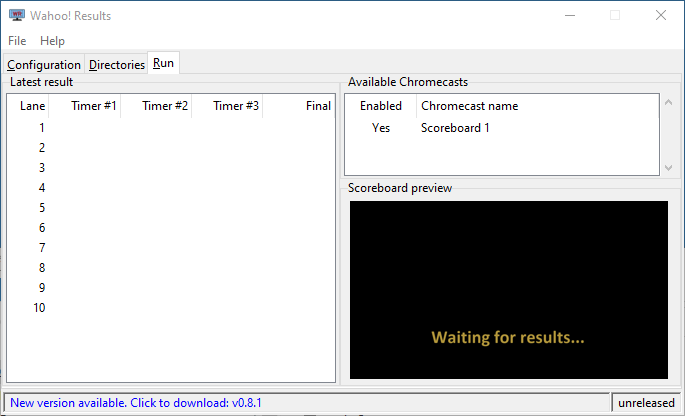
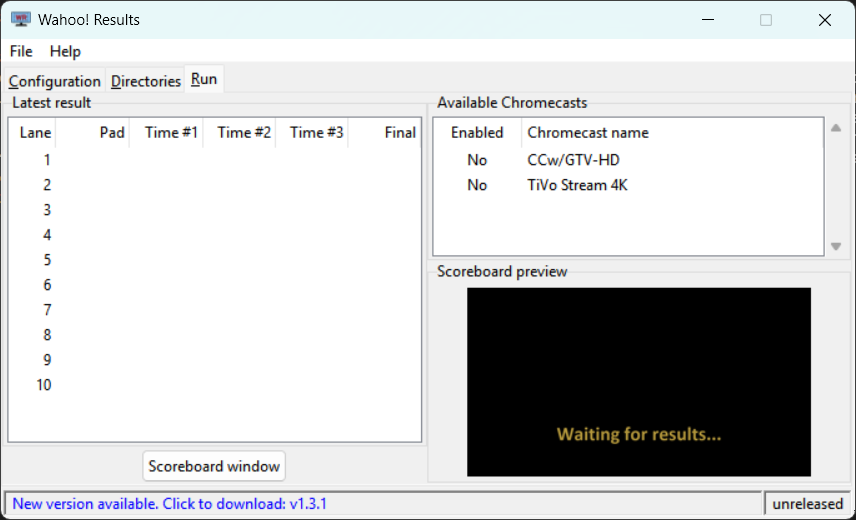
Add Scoreboard window docs

diff --git a/docs/configuration.md b/docs/configuration.md
@@ -153,6 +153,11 @@ The Run tab shows live results as the scoreboard is updated.
 On the left is a table showing the individual watch times and calculated final
 time for each lane.
 
+The ++"Scoreboard window"++ button opens a new window that displays the
+current scoreboard. This window can be resized and moved to a second monitor.
+Double-clicking inside the scoreboard window will toggle between full-screen
+and windowed mode.
+
 On the right the Chromecast selector that shows a list of all Chromecasts that
 have been discovered on the network. Clicking on a row toggles whether the
 scoreboard will send results to that Chromecast (enabled).
